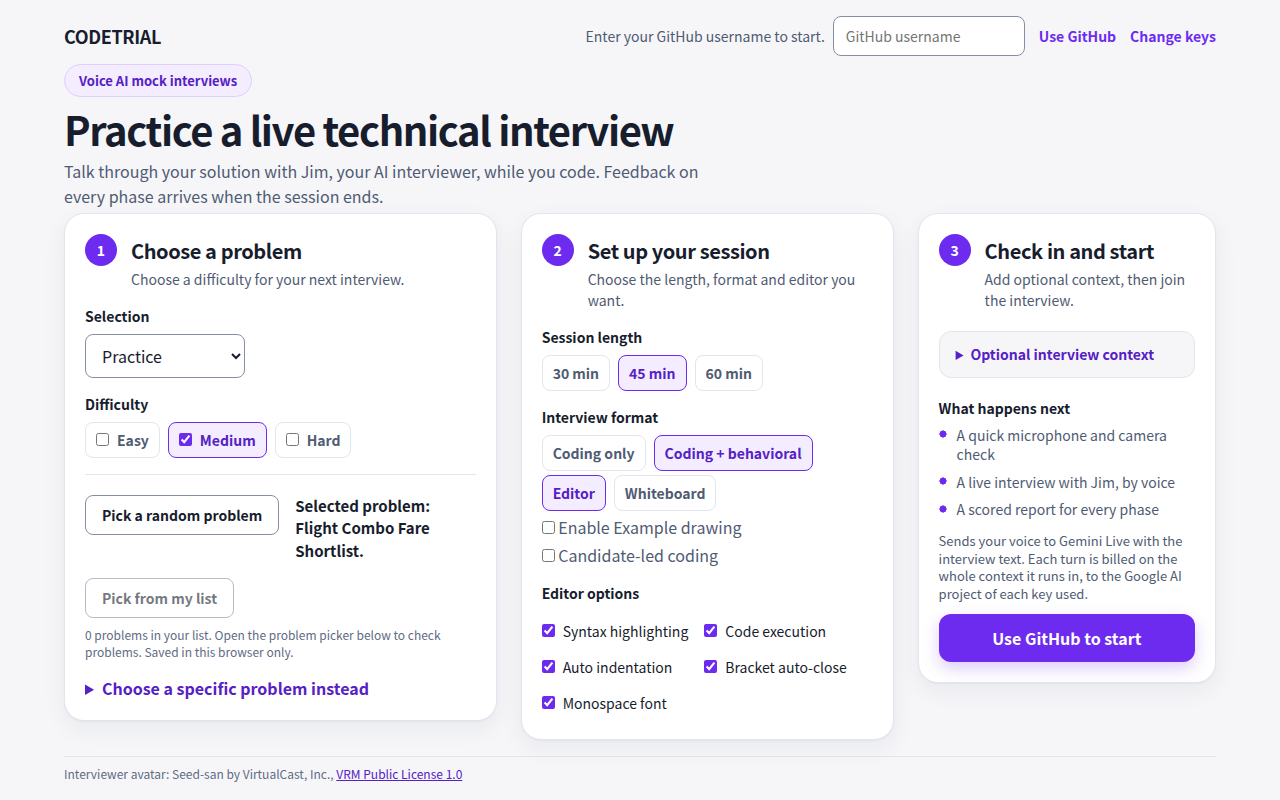
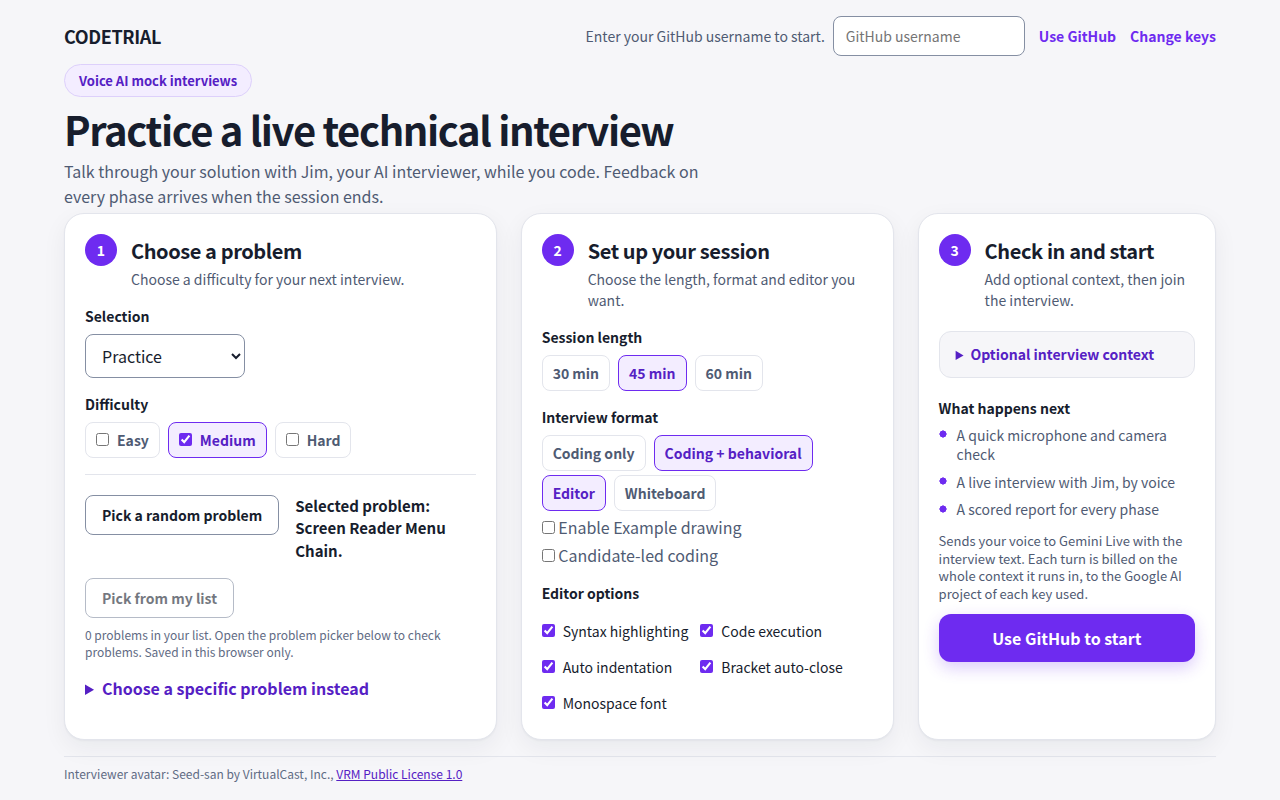
Retake the screenshots on the current main
Main now aligns the lobby's setup cards, so the before screenshots are
taken at 38d53a7 and the after ones at 2fed302, which adds the config
file recheck to the change on top of it. The pages show the same as
before apart from that alignment, and every value is still a fixture.

Changed region(s): [[0.5312, 0.7812, 0.6562, 0.8438], [0.2188, 0.6562, 0.3438, 0.7188]]

diff --git a/README.md b/README.md
@@ -1,7 +1,7 @@
 # Change keys screenshots
 
 Screenshots for "Reopen Setup for local web credential changes". Before is
-upstream main at 2d1e059 and after is 553620a, both taken in Chromium at
+upstream main at 38d53a7 and after is 2fed302, both taken in Chromium at
 1280x800 on a standalone loopback launch.
 
 Every value on these pages is a fixture: LiveKit points at
